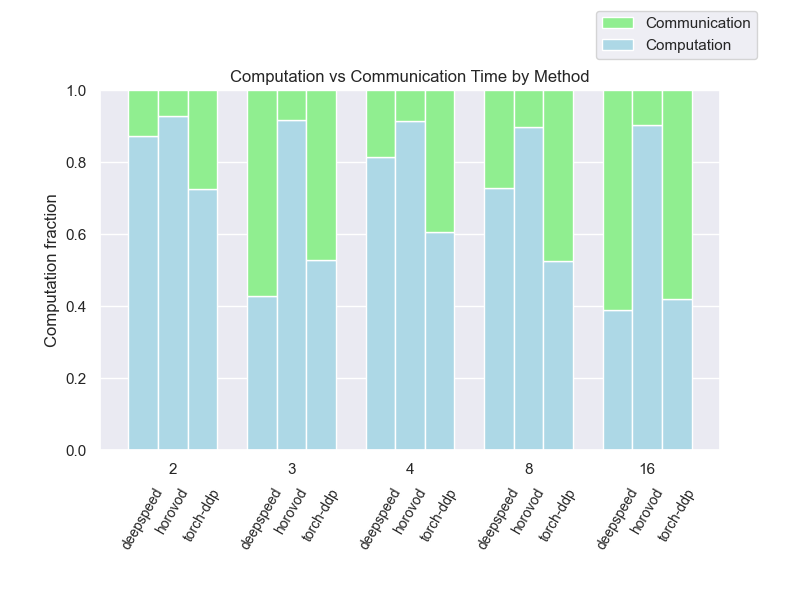
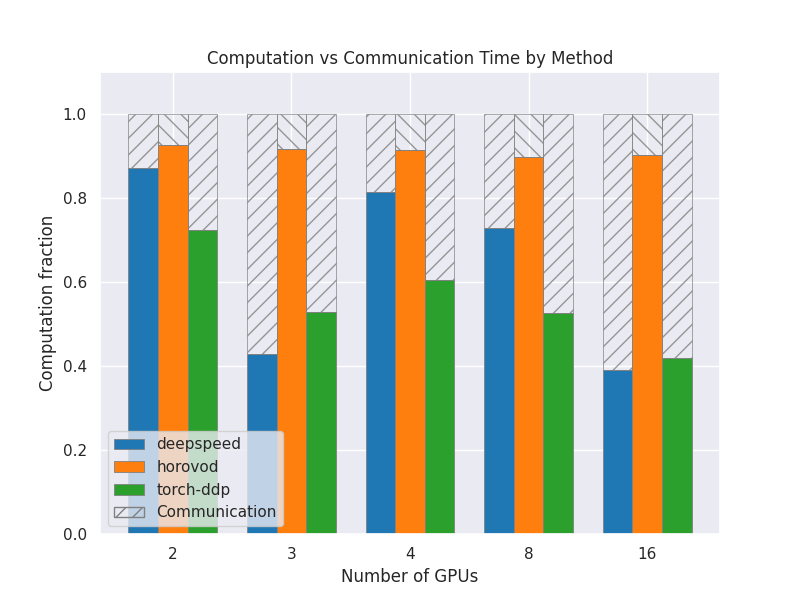
update communication plot style

diff --git a/src/itwinai/torch/profiling/communication_plot.py b/src/itwinai/torch/profiling/communication_plot.py
@@ -78,13 +78,13 @@ def create_stacked_plot(
             the GPU numbers in 'gpu_numbers' sorted numerically in ascending order.
     """
     sns.set_theme()
+    color_map = plt.get_cmap("tab10")
+    hatch_patterns = ["//", r"\\"]
 
     strategy_labels = sorted(strategy_labels)
     gpu_numbers = sorted(gpu_numbers, key=lambda x: int(x))
 
     width = 1 / (len(strategy_labels) + 1)
-    comp_color = "lightblue"
-    comm_color = "lightgreen"
     complements = 1 - values
 
     x = np.arange(len(gpu_numbers))
@@ -95,56 +95,50 @@ def create_stacked_plot(
     for strategy_idx in range(len(strategy_labels)):
         dynamic_bar_offset = strategy_idx - static_offset
 
+        color = color_map(strategy_idx % 10)
+        hatch = hatch_patterns[strategy_idx % 2]
+
         ax.bar(
             x=x + dynamic_bar_offset * width,
             height=values[strategy_idx],
             width=width,
-            color=comp_color,
+            color=color,
+            label=strategy_labels[strategy_idx],
+            edgecolor="gray",
+            linewidth=0.6,
         )
         ax.bar(
             x=x + dynamic_bar_offset * width,
             height=complements[strategy_idx],
             width=width,
             bottom=values[strategy_idx],
-            color=comm_color,
+            facecolor="none",
+            edgecolor="gray",
+            alpha=0.8,
+            linewidth=0.6,
+            hatch=hatch,
         )
 
-        # Positioning the labels under the stacks
-        for gpu_idx in range(len(gpu_numbers)):
-            if np.isnan(values[strategy_idx, gpu_idx]):
-                continue
-            dynamic_label_offset = strategy_idx - static_offset
-            ax.text(
-                x=x[gpu_idx] + dynamic_label_offset * width,
-                y=-0.1,
-                s=strategy_labels[strategy_idx],
-                ha="center",
-                va="top",
-                fontsize=10,
-                rotation=60,
-            )
-
     ax.set_ylabel("Computation fraction")
+    ax.set_xlabel("Number of GPUs")
     ax.set_title("Computation vs Communication Time by Method")
     ax.set_xticks(x)
     ax.set_xticklabels(gpu_numbers)
-    ax.set_ylim(0, 1)
+    ax.set_ylim(0, 1.1)
 
-    # Setting the appropriate colors since the legend is manual
-    legend_elements = [
-        Patch(facecolor=comm_color, label="Communication"),
-        Patch(facecolor=comp_color, label="Computation"),
-    ]
-
-    # Positioning the legend outside of the plot to not obstruct it
-    ax.legend(
-        handles=legend_elements,
-        loc="upper left",
-        bbox_to_anchor=(0.80, 1.22),
-        borderaxespad=0.0,
+    # Adding communication time to the legend
+    hatch_patch = Patch(
+        facecolor="none", edgecolor="gray", hatch="//", label="Communication"
     )
-    fig.subplots_adjust(bottom=0.25)
-    fig.subplots_adjust(top=0.85)
+    ax.legend(handles=ax.get_legend_handles_labels()[0] + [hatch_patch])
+
+    # Dynamically adjusting the width of the figure
+    figure_width = int(1.5 * len(gpu_numbers))
+    fig.set_figheight(6)
+    fig.set_figwidth(figure_width)
+
+    sns.reset_orig()
+
     return fig, ax
 
 

diff --git a/src/itwinai/torch/profiling/profiler.py b/src/itwinai/torch/profiling/profiler.py
@@ -34,9 +34,9 @@ def profile_torch_trainer(method: Callable) -> Callable:
                 {
                     "name": event.key,
                     "node_id": event.node_id,
-                    "self_cpu_time_total": event.self_cpu_time_total,
-                    "cpu_time_total": event.cpu_time_total,
-                    "cpu_time_total_str": event.cpu_time_total_str,
+                    # "self_cpu_time_total": event.self_cpu_time_total,
+                    # "cpu_time_total": event.cpu_time_total,
+                    # "cpu_time_total_str": event.cpu_time_total_str,
                     "self_cuda_time_total": event.self_cuda_time_total,
                     "cuda_time_total": event.cuda_time_total,
                     "cuda_time_total_str": event.cuda_time_total_str,
@@ -92,8 +92,8 @@ def profile_torch_trainer(method: Callable) -> Callable:
         )
 
         profiler = profile(
-            activities=[ProfilerActivity.CUDA, ProfilerActivity.CPU],
-            with_modules=True,
+            activities=[ProfilerActivity.CUDA],  # , ProfilerActivity.CPU],
+            # with_modules=True,
             schedule=schedule(
                 wait=wait_epochs,
                 warmup=warmup_epochs,
